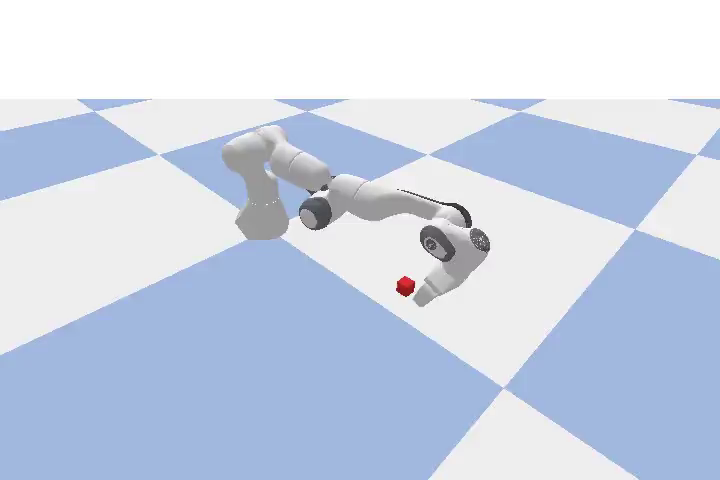
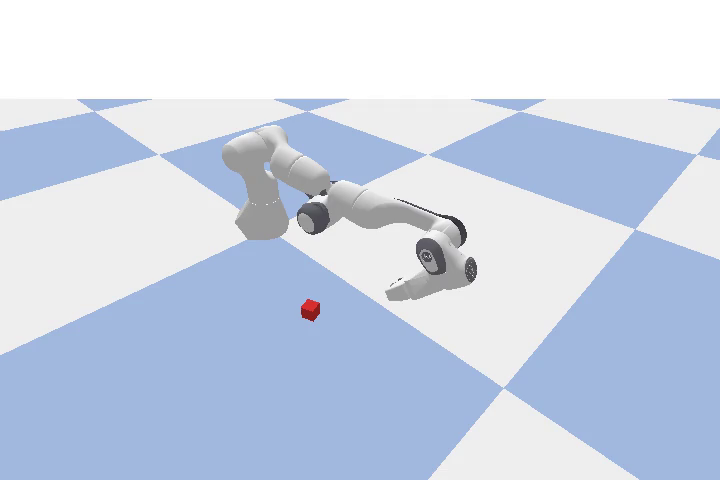
Add Task 8: Joint-space RRT reach with obstacle avoidance

Changed region(s): [[0.3972, 0.3125, 0.7028, 0.6562], [0.3972, 0.625, 0.4583, 0.6875], [0.3667, 0.3438, 0.3972, 0.375]]

diff --git a/outputs/index.html b/outputs/index.html
@@ -129,6 +129,16 @@
       <a href="screens/task7_rrt_reach.png">PNG</a>
     </div>
   </div>
+  <div class="card">
+    <div class="title">Task 8: Joint-space RRT Reach</div>
+    <video controls src="task8_rrt_joint_reach.mp4"></video>
+    <img src="screens/task8_rrt_joint_reach.png" alt="Task 8 screenshot" />
+    <div class="links">
+      <a href="task8_rrt_joint_reach.mp4">MP4</a>
+      <a href="gifs/task8_rrt_joint_reach.gif">GIF</a>
+      <a href="screens/task8_rrt_joint_reach.png">PNG</a>
+    </div>
+  </div>
 </div>
 <footer>
   <p>To serve this locally from the artifacts directory, run: <code>python3 -m http.server 8000 --directory /workspace/outputs</code> and open <code>http://localhost:8000/index.html</code>.</p>

diff --git a/tools/rrt_joint.py b/tools/rrt_joint.py
@@ -1,0 +1,120 @@
+import numpy as np
+import pybullet as p
+import pybullet_data
+from typing import List, Tuple
+
+
+class JointSpacePlanner:
+    def __init__(self, obstacle_size: Tuple[float, float, float], obstacle_pos: Tuple[float, float, float]):
+        self.cid = p.connect(p.DIRECT)
+        p.resetSimulation(self.cid)
+        p.setAdditionalSearchPath(pybullet_data.getDataPath(), physicsClientId=self.cid)
+        p.setGravity(0, 0, -9.81, physicsClientId=self.cid)
+        p.loadURDF("plane.urdf", physicsClientId=self.cid)
+        self.robot = p.loadURDF("franka_panda/panda.urdf", useFixedBase=True, physicsClientId=self.cid)
+        # create obstacle
+        col = p.createCollisionShape(p.GEOM_BOX, halfExtents=[s/2 for s in obstacle_size], physicsClientId=self.cid)
+        vis = p.createVisualShape(p.GEOM_BOX, halfExtents=[s/2 for s in obstacle_size], rgbaColor=[0.2,0.8,0.2,1], physicsClientId=self.cid)
+        self.obstacle = p.createMultiBody(baseMass=0, baseCollisionShapeIndex=col, baseVisualShapeIndex=vis, basePosition=obstacle_pos, physicsClientId=self.cid)
+        # arm joint indices
+        self.arm_joints = []
+        self.link_indices = []
+        for j in range(p.getNumJoints(self.robot, physicsClientId=self.cid)):
+            info = p.getJointInfo(self.robot, j, physicsClientId=self.cid)
+            if info[2] != p.JOINT_FIXED and info[1].decode("utf-8").startswith("panda_joint"):
+                self.arm_joints.append(j)
+                self.link_indices.append(j)
+        # joint limits
+        lows, highs = [], []
+        for j in self.arm_joints:
+            info = p.getJointInfo(self.robot, j, physicsClientId=self.cid)
+            lows.append(info[8])
+            highs.append(info[9])
+        self.lower = np.array(lows)
+        self.upper = np.array(highs)
+
+    def __del__(self):
+        try:
+            p.disconnect(self.cid)
+        except Exception:
+            pass
+
+    def set_q(self, q: np.ndarray):
+        for i, j in enumerate(self.arm_joints):
+            p.resetJointState(self.robot, j, float(q[i]), physicsClientId=self.cid)
+
+    def collision(self) -> bool:
+        # check minimal distance between links and obstacle
+        for link in self.link_indices:
+            pts = p.getClosestPoints(self.robot, self.obstacle, distance=0.005, linkIndexA=link, physicsClientId=self.cid)
+            if pts:
+                return True
+        return False
+
+    def rrt(self, q_start: np.ndarray, q_goal: np.ndarray, max_iters: int = 4000, step: float = 0.1) -> List[np.ndarray]:
+        rng = np.random.default_rng(0)
+        nodes = [q_start.copy()]
+        parents = [-1]
+
+        def nearest(qs: List[np.ndarray], q: np.ndarray) -> int:
+            dists = [np.linalg.norm(qi - q) for qi in qs]
+            return int(np.argmin(dists))
+
+        def steer(q_from: np.ndarray, q_to: np.ndarray) -> np.ndarray:
+            d = q_to - q_from
+            n = np.linalg.norm(d)
+            if n < 1e-9:
+                return q_from.copy()
+            return q_from + d / n * step
+
+        def valid(q: np.ndarray) -> bool:
+            q_clip = np.clip(q, self.lower, self.upper)
+            self.set_q(q_clip)
+            return not self.collision()
+
+        if not valid(q_start) or not valid(q_goal):
+            return []
+
+        for it in range(max_iters):
+            sample = q_goal if rng.random() < 0.2 else self.lower + rng.random(len(self.arm_joints)) * (self.upper - self.lower)
+            idx = nearest(nodes, sample)
+            q_new = steer(nodes[idx], sample)
+            if valid(q_new):
+                parents.append(idx)
+                nodes.append(q_new)
+                if np.linalg.norm(q_new - q_goal) < step and valid(q_goal):
+                    # reconstruct
+                    path = [q_goal.copy(), q_new.copy()]
+                    cur = len(nodes) - 1
+                    while parents[cur] != -1:
+                        cur = parents[cur]
+                        path.append(nodes[cur].copy())
+                    return list(reversed(path))
+        return []
+
+    def shortcut(self, path: List[np.ndarray], trials: int = 200) -> List[np.ndarray]:
+        if len(path) < 3:
+            return path
+        rng = np.random.default_rng(0)
+        pts = [p.copy() for p in path]
+        for _ in range(trials):
+            if len(pts) < 3:
+                break
+            i = rng.integers(0, len(pts)-2)
+            j = rng.integers(i+2, len(pts))
+            # check segment validity by interpolating
+            ok = True
+            a, b = pts[i], pts[j]
+            for alpha in np.linspace(0, 1, num=10):
+                q = (1-alpha)*a + alpha*b
+                if not self._valid_only(q):
+                    ok = False
+                    break
+            if ok:
+                pts = pts[:i+1] + pts[j:]
+        return pts
+
+    def _valid_only(self, q: np.ndarray) -> bool:
+        q_clip = np.clip(q, self.lower, self.upper)
+        self.set_q(q_clip)
+        return not self.collision()

diff --git a/tasks/task8_rrt_joint_reach.py b/tasks/task8_rrt_joint_reach.py
@@ -1,0 +1,62 @@
+import numpy as np
+import pybullet as p
+from typing import Dict, Any
+
+from sim.utils import setup_simulation, get_default_camera, render_camera_frame, VideoRecorder, load_panda
+from tools.rrt_joint import JointSpacePlanner
+
+
+def run(output_path: str = "outputs/task8_rrt_joint_reach.mp4") -> Dict[str, Any]:
+    cid = setup_simulation(gui=False)
+    robot_id, arm_joint_indices, finger_joint_indices, ee_idx = load_panda(cid)
+    view, proj, w, h = get_default_camera(720, 480)
+    recorder = VideoRecorder(output_path, fps=30)
+
+    obstacle_size = (0.12, 0.12, 0.20)
+    obstacle_pos = (0.60, 0.00, 0.20)
+
+    planner = JointSpacePlanner(obstacle_size, obstacle_pos)
+
+    # current and goal joint vectors
+    q_start = np.array([s[0] for s in p.getJointStates(robot_id, arm_joint_indices)])
+    # sample a goal EE pose and compute IK for goal
+    goal_ee = [0.70, 0.15, 0.30]
+    q_goal_full = p.calculateInverseKinematics(robot_id, ee_idx, goal_ee)
+    q_goal = np.array([q_goal_full[i] for i in range(len(arm_joint_indices))])
+
+    path = planner.rrt(q_start, q_goal, max_iters=3000, step=0.1)
+    if path:
+        path = planner.shortcut(path)
+
+    if not path:
+        # fallback: direct IK execution
+        p.setJointMotorControlArray(robot_id, arm_joint_indices, p.POSITION_CONTROL, targetPositions=q_goal.tolist(), physicsClientId=cid)
+        for _ in range(240):
+            p.stepSimulation(cid)
+            if _ % 3 == 0:
+                recorder.add_frame(render_camera_frame(view, proj, w, h))
+    else:
+        for q in path:
+            p.setJointMotorControlArray(robot_id, arm_joint_indices, p.POSITION_CONTROL, targetPositions=q.tolist(), physicsClientId=cid)
+            for _ in range(60):
+                p.stepSimulation(cid)
+                if _ % 3 == 0:
+                    recorder.add_frame(render_camera_frame(view, proj, w, h))
+
+    final = np.array(p.getLinkState(robot_id, ee_idx)[0])
+    dist = float(np.linalg.norm(final - np.array(goal_ee)))
+    success = dist < 0.05
+
+    recorder.close()
+    p.disconnect(cid)
+    return {
+        "task": "task8_rrt_joint_reach",
+        "success": bool(success),
+        "ee_goal_distance": dist,
+        "threshold": 0.05,
+        "output_video": output_path,
+    }
+
+
+if __name__ == "__main__":
+    print(run())

diff --git a/run_all.py b/run_all.py
@@ -9,6 +9,7 @@ from tasks.task4_obstacle_pick_place import run as run4
 from tasks.task5_stacking import run as run5
 from tasks.task6_figure_eight import run as run6
 from tasks.task7_rrt_reach import run as run7
+from tasks.task8_rrt_joint_reach import run as run8
 
 # Optional MuJoCo tasks
 HAS_MJ = False
@@ -35,6 +36,7 @@ if __name__ == "__main__":
     metrics.append(run5("outputs/task5_stacking.mp4"))
     metrics.append(run6("outputs/task6_figure_eight.mp4"))
     metrics.append(run7("outputs/task7_rrt_reach.mp4"))
+    metrics.append(run8("outputs/task8_rrt_joint_reach.mp4"))
 
     included_mj = False
     if HAS_MJ and not args.no_mujoco:
